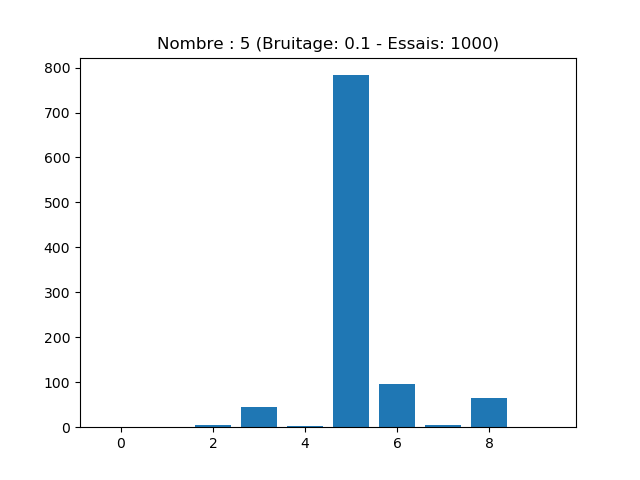
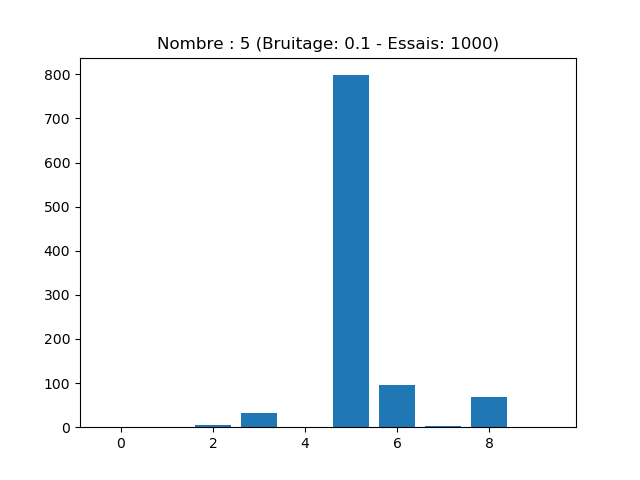
FIX forget abs

diff --git a/Part-3-Widrow-Hoff-10nb/part3.py b/Part-3-Widrow-Hoff-10nb/part3.py
@@ -157,7 +157,7 @@ def verifNumber(fileName, weightTab, noise = 0) :
         # plt.bar(bars, potOutput)
         # plt.show()
 
-    return sum(error)
+    return sum(np.abs(error))
 
 def verifPart(weightTab, noise = 0):
     resultFinalError = 0
